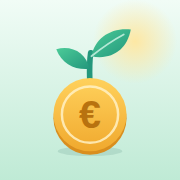
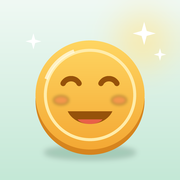
Sou'Rire : nouveau nom, nouvelle icône, carte de conseils basée sur les chiffres
Claude-Session: https://claude.ai/code/session_01Fo1AC56gqNT8SJvgy4bEYq

Changed region(s): [[0.1944, 0.1111, 0.8611, 0.8889], [0.8611, 0.2778, 0.9167, 0.3333], [0.1667, 0.1944, 0.2222, 0.25]]

diff --git a/budget2/index.html b/budget2/index.html
@@ -3,13 +3,13 @@
 <head>
 <meta charset="utf-8">
 <meta name="viewport" content="width=device-width, initial-scale=1, viewport-fit=cover, maximum-scale=1, user-scalable=no">
-<title>Le Grand Sou</title>
+<title>Sou'Rire</title>
 <link rel="manifest" href="manifest.webmanifest">
 <meta name="theme-color" content="#F3F2EE">
 <meta name="apple-mobile-web-app-capable" content="yes">
 <meta name="apple-mobile-web-app-status-bar-style" content="default">
-<meta name="apple-mobile-web-app-title" content="Le Grand Sou">
-<link rel="apple-touch-icon" href="icon-180.png?v=4">
+<meta name="apple-mobile-web-app-title" content="Sou'Rire">
+<link rel="apple-touch-icon" href="icon-180.png?v=5">
 <style>
 :root{
   --ink:#1B2430; --ink-2:#465364; --ink-3:#7E8B99;
@@ -333,6 +333,10 @@ main{padding-top:8px}
 .tiles .wide .i{background:#F4D2CC;flex:none}
 .tiles .wide .tx{flex:1} .tiles .wide small{display:block;font-size:12px;font-weight:500;color:#C58A82;margin-top:1px}
 .tiles .wide b{font-variant-numeric:tabular-nums}
+.advice .at{font-size:11px;font-weight:700;letter-spacing:.06em;text-transform:uppercase;color:var(--forest);margin:2px 0 6px}
+.advice ul{margin:0 0 12px;padding-left:18px}
+.advice ul:last-of-type{margin-bottom:4px}
+.advice li{font-size:14px;line-height:1.45;color:var(--ink-2);margin-bottom:7px}
 .secH{font-size:15px;font-weight:700;margin:6px 4px 10px;display:flex;justify-content:space-between;align-items:baseline}
 .secH span{font-size:12.5px;color:var(--ink-3);font-weight:500}
 /* comptes */
@@ -369,8 +373,8 @@ nav .badge{top:-30px;left:calc(50% + 14px)}
   <div class="hbar">
     <button class="rb" id="gear" aria-label="Réglages"></button>
     <button class="rb g" id="savBtn" aria-label="Épargne"></button>
-    <div class="hello" style="text-align:right;cursor:pointer" onclick="editDeviceName()" title="Changer le prénom"><div class="s1">Le Grand Sou</div><div class="s2" id="hello">Bonjour</div></div>
-    <div class="brand" onclick="go('reglages')"><img src="icon-180.png?v=4" alt=""><span id="syncDot" class="sdot off"></span></div>
+    <div class="hello" style="text-align:right;cursor:pointer" onclick="editDeviceName()" title="Changer le prénom"><div class="s1">Sou'Rire</div><div class="s2" id="hello">Bonjour</div></div>
+    <div class="brand" onclick="go('reglages')"><img src="icon-180.png?v=5" alt=""><span id="syncDot" class="sdot off"></span></div>
   </div>
   <div class="quote" id="quote"></div>
   <div class="conseil" id="conseil"></div>
@@ -393,7 +397,7 @@ nav .badge{top:-30px;left:calc(50% + 14px)}
 <script>
 "use strict";
 const KEY="budget2.v1";
-const APP_VERSION="v26 · 27 octobre 2026";
+const APP_VERSION="v27 · 27 octobre 2026";
 const MONTHS=["janvier","février","mars","avril","mai","juin","juillet","août","septembre","octobre","novembre","décembre"];
 const MSHORT=["janv.","févr.","mars","avr.","mai","juin","juil.","août","sept.","oct.","nov.","déc."];
 const DAYS=["dimanche","lundi","mardi","mercredi","jeudi","vendredi","samedi"];
@@ -1324,7 +1328,7 @@ function vToday(){
   </div>`;
   const safe=!alm&&isCur()?`<div class="safe"><span class="ok">${ico("check")}</span><span class="tx">Tout est sous contrôle ce mois-ci</span></div>`:"";
 
-  return storeBanner()+hero+dayStrip(M)+alm+safe+tiles+stepsBar()+planBanner()+`
+  return storeBanner()+hero+dayStrip(M)+alm+safe+tiles+adviceCard()+stepsBar()+planBanner()+`
   <div class="secH">Les comptes <span>touche pour le prévisionnel</span></div>
   ${bw?`<div class="banner"><b>Fenêtre aveugle du week-end.</b> ${C.nPending} opération${C.nPending>1?"s":""} pour ${eur0(C.pendingTot)} n'apparaîtron${C.nPending>1?"t":"t"} à la banque que mardi ou mercredi. Les montants en gros sont les vrais soldes, ils en tiennent déjà compte.</div>`:``}
   ${cur===PROP.id&&S.plan===PLAN_ID?propCard("today"):""}
@@ -1630,7 +1634,7 @@ function vReglages(){
     <div class="hint" style="margin:6px 0 12px">Efface tout, sans retour possible.</div>
     <button class="btn sm danger" onclick="wipe()">Tout effacer</button>
   </div>
-  <div class="hint" style="text-align:center;padding:4px 0 10px">Le Grand Sou · ${APP_VERSION} · ${Sync.on?"synchronisé, chiffré sur le téléphone":"données locales · aucun serveur"}</div>`;
+  <div class="hint" style="text-align:center;padding:4px 0 10px">Sou'Rire · ${APP_VERSION} · ${Sync.on?"synchronisé, chiffré sur le téléphone":"données locales · aucun serveur"}</div>`;
 }
 
 /* ================= feuille modale ================= */
@@ -2330,6 +2334,65 @@ function quoteNow(){
   if(!q||q.mood!==mood||!QUOTES[mood][q.i]){ q=quotePick(mood,q&&q.mood===mood?q.i:-1,q); _quoteMem=q; quoteSave(q); }
   return QUOTES[mood][q.i];
 }
+/* ================= conseils détaillés (carte de l'écran Aujourd'hui) ================= */
+/* « ce mois-ci » : ce qu'on peut faire maintenant ; « le mois prochain » : comment repartir d'un mois difficile ou prolonger un bon mois */
+let adviceOff=0;
+function moreAdvice(){ adviceOff++; const y=scrollY; render(); scrollTo(0,y); }
+function adviceData(ym){
+  const M=month(ym), C=calc(ym), mood=accountsMood(), dim=daysIn(ym), t=Math.min(new Date().getDate(),dim), left=dim-t+1;
+  const prevYm=ymShift(ym,-1), P=S.months[prevYm]?calc(prevYm):null, pName=MONTHS[ymParts(prevYm).m-1], nName=MONTHS[ymParts(ymShift(ym,1)).m-1];
+  const inc=C.salaryTot+C.recvTot+C.extraTot, now=[], next=[];
+  const cats=S.categories.filter(c=>c.pocket!=="courses"&&c.pocket!=="repas"&&!c.refund).map(c=>({c,v:C.byCat[c.id]||0,b:+c.budget||0,p:P?(P.byCat[c.id]||0):0})).filter(x=>x.v>0.5);
+  const top=cats.slice().sort((a,b)=>b.v-a.v)[0];
+  const over=cats.filter(x=>x.b>0&&x.v>x.b).sort((a,b)=>(b.v-b.b)-(a.v-a.b));
+  // ---- ce mois-ci
+  if(top&&C.spentAll>0) now.push(`Le plus gros poste du mois, c'est ${top.c.name} : ${eur0(top.v)}, soit ${Math.round(top.v/C.spentAll*100)} % des dépenses courantes. C'est là qu'un petit effort se voit le plus.`);
+  if(P){ const up=cats.map(x=>Object.assign(x,{d:x.v-x.p})).filter(x=>x.p>0&&x.d>20).sort((a,b)=>b.d-a.d)[0];
+    if(up) now.push(`${up.c.name} : ${eur0(up.v)} déjà ce mois-ci contre ${eur0(up.p)} sur tout ${pName}. Ça vaut le coup de regarder ce qui a changé.`);
+    const down=cats.map(x=>Object.assign(x,{d:x.p-x.v})).filter(x=>t>=20&&x.d>20).sort((a,b)=>b.d-a.d)[0];
+    if(down) now.push(`Bravo sur ${down.c.name} : ${eur0(down.v)} contre ${eur0(down.p)} en ${pName}. La différence peut partir directement à l'épargne.`); }
+  const small=M.ops.filter(o=>o.kind==="out"&&!o.proj&&(+o.amount||0)>0&&(+o.amount||0)<15);
+  if(small.length>=6){ const tot=small.reduce((s,o)=>s+(+o.amount||0),0); now.push(`${small.length} petits achats de moins de 15 € ce mois-ci, pour ${eur0(tot)} au total. Un par un ils ne se sentent pas, ensemble ils pèsent.`); }
+  if(C.courses>0){ const wk=Math.max(1,Math.ceil(left/7)); if(C.spentCourses>C.courses) now.push(`Courses : ${eur0(C.spentCourses-C.courses)} au-dessus de l'enveloppe. Pour les ${left} jours qui restent, on vide d'abord le frigo et les placards avant de racheter.`);
+    else if(C.coursesLeft>0.5&&left>3) now.push(`Courses : ${eur0(C.coursesLeft)} pour ${wk} semaine${wk>1?"s":""}, donc ${eur0(C.coursesLeft/wk)} par plein. Une liste faite avant de partir, c'est souvent 10 à 15 % de moins sur le ticket.`); }
+  if(inc>0&&C.fixed/inc>0.5){ const big=M.charges.slice().sort((a,b)=>(+b.amount||0)-(+a.amount||0)).slice(0,3).map(c=>c.label).join(", ");
+    now.push(`Les prélèvements fixes prennent ${Math.round(C.fixed/inc*100)} % des rentrées. Les plus lourds : ${big}. Un appel pour renégocier l'un d'eux (assurance, box, téléphone) fait gagner tous les mois.`); }
+  if(C.toRefund>0.5) now.push(`${eur0(C.toRefund)} à te faire rembourser. Une relance aujourd'hui, c'est de l'argent qui revient avant la fin du mois.`);
+  if(mood==="tough") now.push(`Pour les ${left} jours qui restent : courses et essentiel seulement. Chaque euro évité maintenant, c'est un euro de frais bancaires en moins.`);
+  if(mood==="ok"&&C.reste>20) now.push(`Il reste ${eur0(C.reste)} de libre. En mettre ${eur0(Math.max(10,Math.floor(C.reste/2/10)*10))} de côté aujourd'hui, avant que ça file ailleurs, c'est la meilleure décision du mois.`);
+  // ---- le mois prochain
+  if(C.reste< -1){ const per=Math.ceil(-C.reste/3/10)*10;
+    next.push(`Ce mois finit avec ${eur0(-C.reste)} de manque. Plutôt que tout rattraper d'un coup, vise ${eur0(per)} de moins par mois pendant 3 mois : c'est tenable et ça remet les comptes à flot.`);
+    if(top) next.push(`Pour trouver ces ${eur0(per)}, le plus simple est de partir de ${top.c.name} (${eur0(top.v)} ce mois-ci) et de fixer un plafond un peu plus bas dans Enveloppes.`); }
+  over.slice(0,2).forEach(x=>next.push(`${x.c.name} a dépassé son plafond de ${eur0(x.v-x.b)}. En ${nName}, soit tu remontes le plafond à ${eur0(Math.ceil(x.v/10)*10)} pour qu'il colle à la réalité, soit tu le gardes et tu lèves le pied dès le 15.`));
+  const lep=M.moves.filter(m=>m.kind==="out").reduce((s,m)=>s+(+m.amount||0),0);
+  if(lep>0) next.push(`${eur0(lep)} ont été pris sur l'épargne. Remets-les en ${Math.min(3,Math.max(1,Math.ceil(lep/150)))} fois dès les prochains salaires, avec un virement programmé le jour de la paie pour ne pas l'oublier.`);
+  if(C.reste>20&&mood!=="tough"){ const goal=Math.floor(C.reste*0.8/10)*10;
+    if(goal>=10) next.push(`Ce mois laisse environ ${eur0(C.reste)} de marge. En ${nName}, programme un virement de ${eur0(goal)} vers l'épargne le jour du salaire : ce qu'on ne voit pas, on ne le dépense pas.`); }
+  if(inc>0){ const rate=Math.round(Math.max(0,C.savedNet)/inc*100);
+    if(rate<10) next.push(`L'épargne représente ${rate} % des rentrées ce mois-ci. Un bon repère, c'est 10 %, même en commençant par 5 % le mois prochain.`);
+    else next.push(`${rate} % des rentrées mis de côté, c'est un très bon rythme. Garde le même virement en ${nName} plutôt que de viser plus haut d'un coup.`); }
+  if(P&&P.spentAll>0&&C.spentAll>0&&t>=dim-3){ const d=C.spentAll-P.spentAll;
+    if(Math.abs(d)>30) next.push(d>0?`Les dépenses courantes ont augmenté de ${eur0(d)} par rapport à ${pName}. Pour ${nName}, ajuste les enveloppes ou prévois ce qui a coûté plus cher.`:`${eur0(-d)} de dépenses en moins qu'en ${pName} : garde les mêmes habitudes en ${nName}, c'est elles qui font la différence.`); }
+  if(mood!=="ok") next.push(`Fais le départ du mois dès le salaire : l'appli propose les virements et met les enveloppes à l'abri avant toute autre dépense.`);
+  else next.push(`Un mois qui se passe bien, c'est le bon moment pour anticiper : une grosse dépense à venir (vacances, voiture, naissance) peut devenir un projet dans Enveloppes, à petites parts chaque mois.`);
+  return {now,next,mood};
+}
+function adviceCard(){
+  if(!isCur()) return "";
+  const M=month(cur); if(!M.steps.depart&&!M.ops.length) return "";
+  const D=adviceData(cur); if(!D.now.length&&!D.next.length) return "";
+  const pick=(L,n)=>{ if(L.length<=n) return L; const o=(adviceOff*n)%L.length; return L.concat(L).slice(o,o+n); };
+  const li=L=>L.map(x=>`<li>${esc(x)}</li>`).join("");
+  const head={ok:"Le mois se passe bien",watch:"Quelques points à surveiller",tough:"Mois difficile : on remonte la pente"}[D.mood];
+  const many=D.now.length>3||D.next.length>3;
+  return `<div class="secH">Conseils <span>${esc(head)}</span></div>
+  <div class="card advice">
+    ${D.now.length?`<div class="at">Ce mois-ci</div><ul>${li(pick(D.now,3))}</ul>`:""}
+    ${D.next.length?`<div class="at">Le mois prochain</div><ul>${li(pick(D.next,3))}</ul>`:""}
+    ${many?`<button class="toggle" onclick="moreAdvice()">Autres conseils →</button>`:""}
+  </div>`;
+}
 // conseils concrets, calculés sur les vrais chiffres du mois en cours
 function tipsFor(mood){
   const ym=ymNow(); if(!S.months[ym]) return ["Commence le mois en notant les soldes du 1er : l'appli pourra alors te dire où tu en es chaque jour."];
@@ -2415,7 +2478,7 @@ function reportData(ym){
     cats,catTot:cats.reduce((t,c)=>t+c.v,0),charges,ops,hist,savings,savTot:savingsTotal(),moves:M.moves,courses:{b:C.courses,s:C.spentCourses},reste:C.reste,
     pending:C.nPending?{n:C.nPending,v:C.pendingTot}:null};
 }
-const fileName=(R,ext)=>"Le-Grand-Sou-"+R.ym+"."+ext;
+const fileName=(R,ext)=>"Sou-Rire-"+R.ym+"."+ext;
 
 /* remise du fichier : partage iOS (Fichiers, Mail, WhatsApp…) ou téléchargement */
 function deliver(blob,name,label){
@@ -2536,13 +2599,13 @@ function buildPdf(R){
 
   // pied de page
   const np=doc.getNumberOfPages();
-  for(let i=1;i<=np;i++){ doc.setPage(i); col(PC.grey); doc.setFontSize(7.2); doc.text(pt(`Le Grand Sou · ${R.title} · édité le ${new Date().toLocaleDateString("fr-FR")}`),m,H-8); doc.text(`${i} / ${np}`,W-m,H-8,{align:"right"}); }
+  for(let i=1;i<=np;i++){ doc.setPage(i); col(PC.grey); doc.setFontSize(7.2); doc.text(pt(`Sou'Rire · ${R.title} · édité le ${new Date().toLocaleDateString("fr-FR")}`),m,H-8); doc.text(`${i} / ${np}`,W-m,H-8,{align:"right"}); }
   return doc.output("blob");
 }
 
 /* ---------- Excel ---------- */
 async function buildXlsx(R){
-  const wb=new ExcelJS.Workbook(); wb.creator="Le Grand Sou"; wb.created=new Date();
+  const wb=new ExcelJS.Workbook(); wb.creator="Sou'Rire"; wb.created=new Date();
   const EUR='#,##0.00 "€";[Red]-#,##0.00 "€"', FOREST="FF2E5237", LIGHT="FFF3F2EE", ORANGE="FFF39A1E";
   const {y:yy,m:mm}=ymParts(R.ym), dt=d=>new Date(Date.UTC(yy,mm-1,Math.max(1,d||1)));
   const head=(ws,row,cells)=>{ const r=ws.getRow(row); cells.forEach((c,i)=>{ const x=r.getCell(i+1); x.value=c; x.font={bold:true,color:{argb:"FFFFFFFF"}}; x.fill={type:"pattern",pattern:"solid",fgColor:{argb:FOREST}}; x.alignment={vertical:"middle",horizontal:i?"center":"left"}; }); r.height=20; };

diff --git a/budget2/sw.js b/budget2/sw.js
@@ -1,4 +1,4 @@
-const CACHE = "budget2-v27";
+const CACHE = "budget2-v28";
 const FILES = ["./", "./index.html", "./manifest.webmanifest", "./icon-180.png", "./icon-512.png"];
 self.addEventListener("install", e => { e.waitUntil(caches.open(CACHE).then(c => c.addAll(FILES)).then(() => self.skipWaiting())); });
 self.addEventListener("activate", e => { e.waitUntil(caches.keys().then(ks => Promise.all(ks.filter(k => k !== CACHE).map(k => caches.delete(k)))).then(() => self.clients.claim())); });
